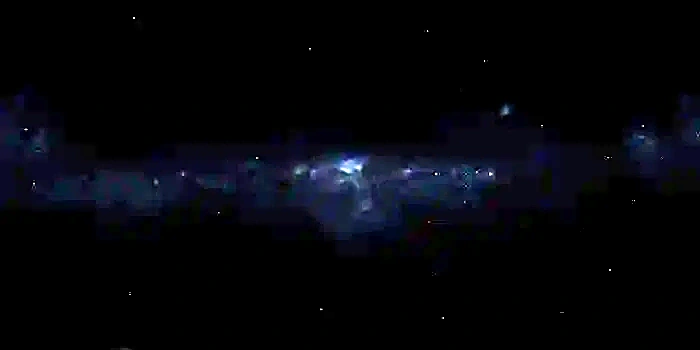
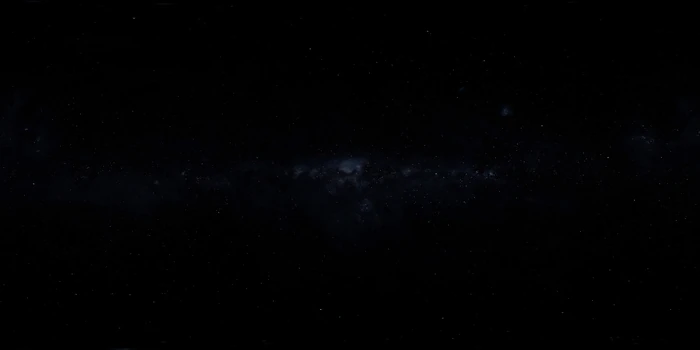
fix(wallpaper): restore original 2K Milky Way texture with proper quality
- Replaced pixelated upscaled version with original 2048x1024 texture
- Desktop: 1600x800 LANCZOS downscale, quality 90 WebP (47KB)
- Mobile: 700x350 LANCZOS downscale, quality 90 WebP (5.7KB)
- Only 1.1x brightness (subtle, preserves dark sky feel)
- Dark overlay at 50%/60% for balanced visibility

Changed region(s): [[0.0, 0.2571, 0.81, 0.7143], [0.87, 0.2571, 1.0, 0.5143], [0.69, 0.2857, 0.75, 0.3429]]

diff --git a/quartz/styles/custom.scss b/quartz/styles/custom.scss
@@ -1660,8 +1660,8 @@ body {
 :root[data-theme="dark"],
 html.theme-dark {
   $dark-overlay: linear-gradient(
-    color-mix(in srgb, var(--light) 30%, transparent),
-    color-mix(in srgb, var(--light) 40%, transparent)
+    color-mix(in srgb, var(--light) 50%, transparent),
+    color-mix(in srgb, var(--light) 60%, transparent)
   );
   background-image: $dark-overlay, url("static/wallpapers/milkyway-desktop.webp");
 
